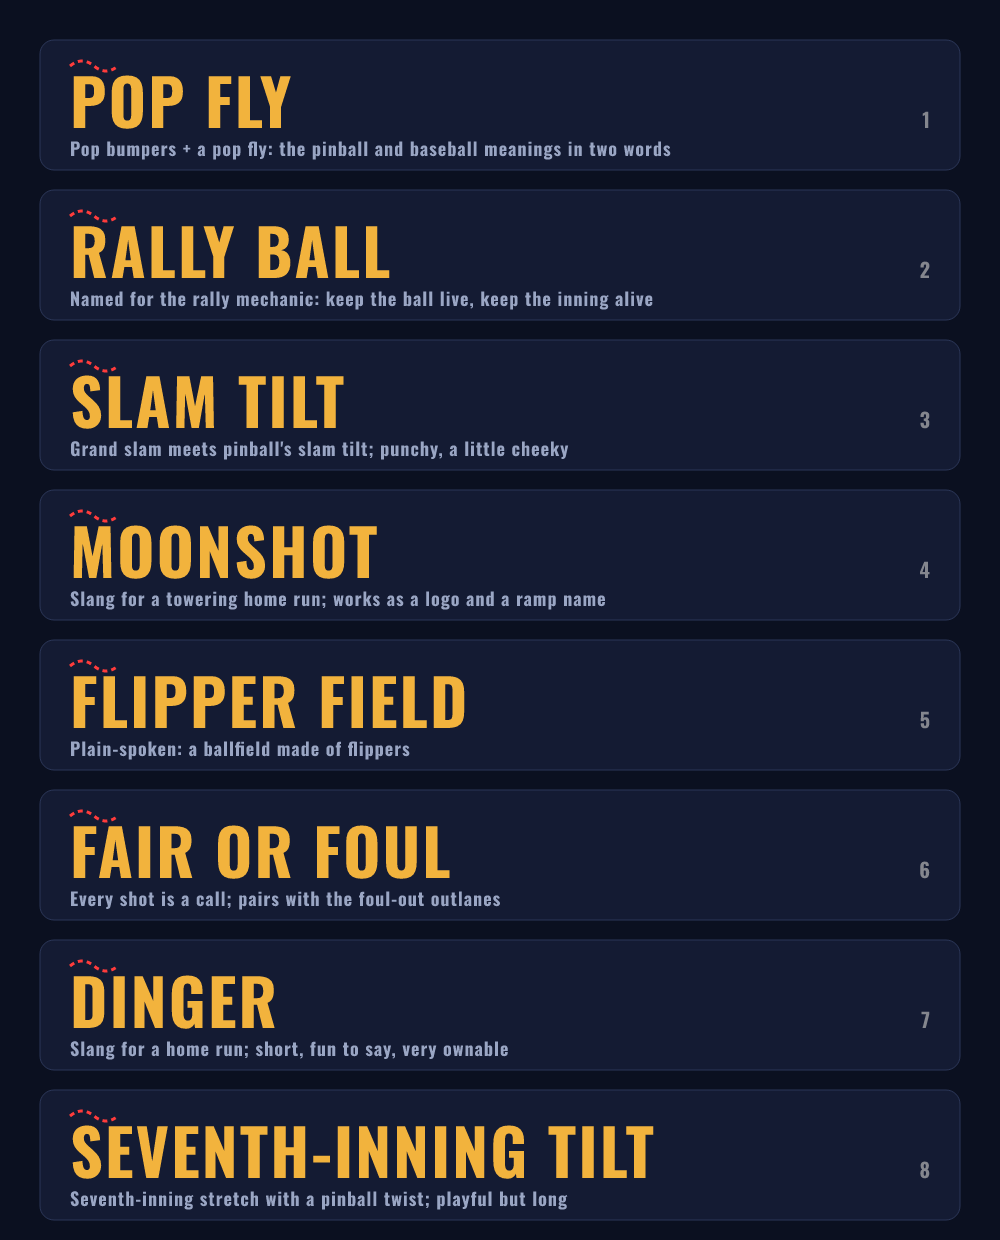
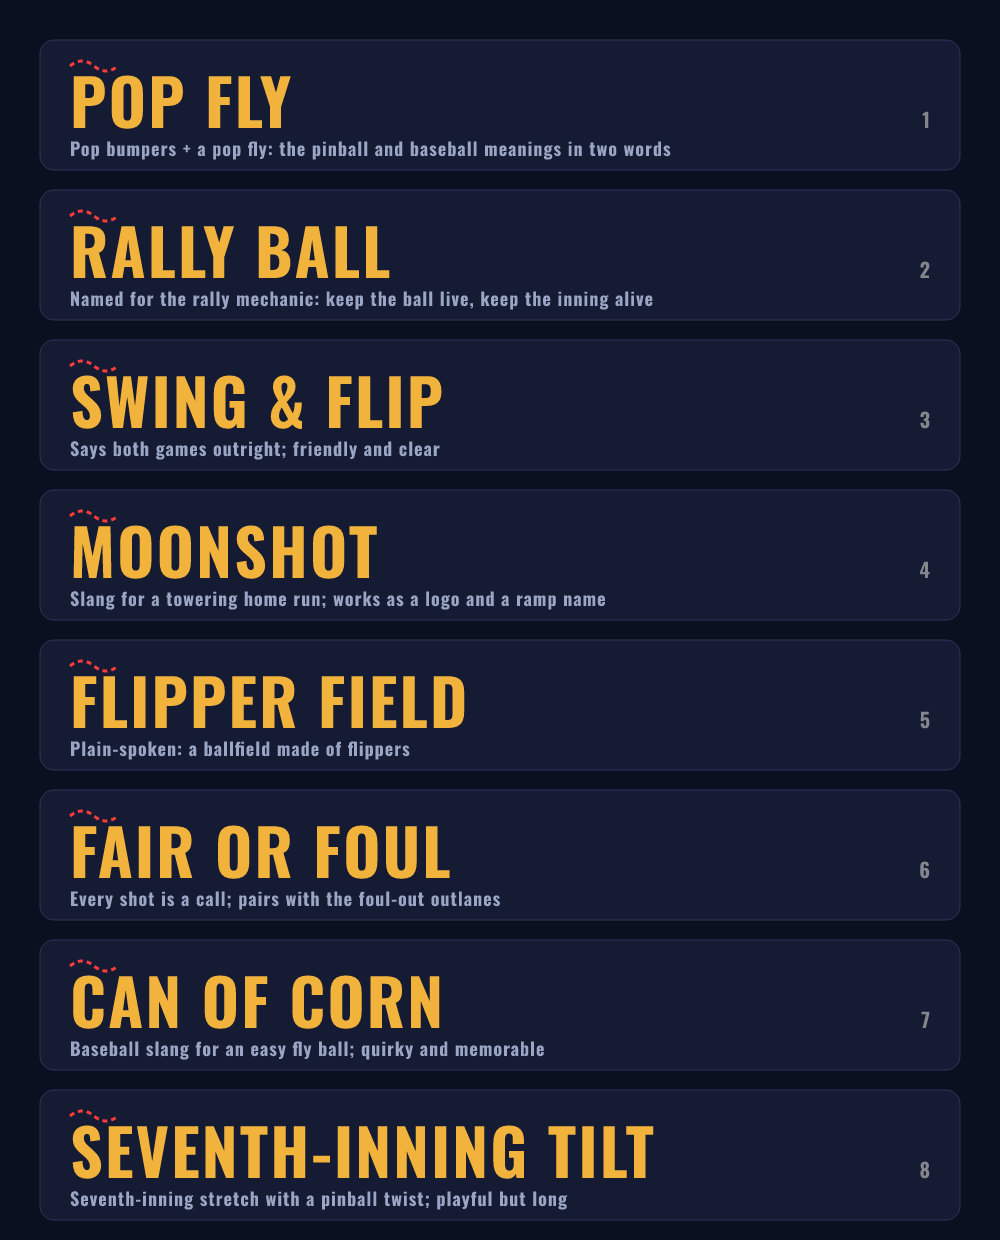
Escape name text in the wordmark sheet; regenerate round 2

Changed region(s): [[0.062, 0.7661, 0.558, 0.8581], [0.062, 0.2758, 0.465, 0.3677], [0.465, 0.3371, 0.558, 0.3677]]

diff --git a/tools/art/names.ts b/tools/art/names.ts
@@ -13,15 +13,27 @@ export const NAME_CANDIDATES: { name: string; line: string }[] = [
 
 /** Round 2 (more options requested). */
 export const NAME_CANDIDATES_2: { name: string; line: string }[] = [
-  { name: 'Pop Fly', line: 'Pop bumpers + a pop fly: the pinball and baseball meanings in two words' },
-  { name: 'Rally Ball', line: 'Named for the rally mechanic: keep the ball live, keep the inning alive' },
+  {
+    name: 'Pop Fly',
+    line: 'Pop bumpers + a pop fly: the pinball and baseball meanings in two words',
+  },
+  {
+    name: 'Rally Ball',
+    line: 'Named for the rally mechanic: keep the ball live, keep the inning alive',
+  },
   { name: 'Swing & Flip', line: 'Says both games outright; friendly and clear' },
   { name: 'Moonshot', line: 'Slang for a towering home run; works as a logo and a ramp name' },
   { name: 'Flipper Field', line: 'Plain-spoken: a ballfield made of flippers' },
   { name: 'Fair or Foul', line: 'Every shot is a call; pairs with the foul-out outlanes' },
   { name: 'Can of Corn', line: 'Baseball slang for an easy fly ball; quirky and memorable' },
-  { name: 'Seventh-Inning Tilt', line: 'Seventh-inning stretch with a pinball twist; playful but long' },
+  {
+    name: 'Seventh-Inning Tilt',
+    line: 'Seventh-inning stretch with a pinball twist; playful but long',
+  },
 ];
+
+const xml = (t: string): string =>
+  t.replace(/&/g, '&amp;').replace(/</g, '&lt;').replace(/>/g, '&gt;');
 
 export function namesSvg(candidates = NAME_CANDIDATES): string {
   const rowH = 150;
@@ -30,8 +42,8 @@ export function namesSvg(candidates = NAME_CANDIDATES): string {
     return `<g transform="translate(40 ${y})">
   <rect width="920" height="${rowH - 20}" rx="14" fill="#141b33" stroke="#2a3557"/>
   <path d="M 30 26 q 12 -10 24 0 q 12 10 24 0" fill="none" stroke="#ff3b3b" stroke-width="3" stroke-dasharray="5 4"/>
-  <text x="30" y="88" font-family="Oswald" font-weight="700" font-size="64" fill="#f2b33d" letter-spacing="2">${name.toUpperCase()}</text>
-  <text x="30" y="116" font-family="Oswald" font-weight="700" font-size="18" fill="#9aa6c4" letter-spacing="1">${line}</text>
+  <text x="30" y="88" font-family="Oswald" font-weight="700" font-size="64" fill="#f2b33d" letter-spacing="2">${xml(name.toUpperCase())}</text>
+  <text x="30" y="116" font-family="Oswald" font-weight="700" font-size="18" fill="#9aa6c4" letter-spacing="1">${xml(line)}</text>
   <text x="890" y="88" text-anchor="end" font-family="Oswald" font-weight="700" font-size="20" fill="#f4f1e8" opacity="0.5">${i + 1}</text>
 </g>`;
   });

diff --git a/tools/names-sheet.ts b/tools/names-sheet.ts
@@ -14,6 +14,9 @@ for (const [file, list] of [
 ] as const) {
   const svg = namesSvg(list);
   writeFileSync(`docs/MVP/assets/${file}.svg`, svg);
-  writeFileSync(`docs/MVP/assets/${file}.png`, new Resvg(svg, { fitTo: { mode: 'width', value: 1000 }, font }).render().asPng());
+  writeFileSync(
+    `docs/MVP/assets/${file}.png`,
+    new Resvg(svg, { fitTo: { mode: 'width', value: 1000 }, font }).render().asPng(),
+  );
   console.log(`wrote docs/MVP/assets/${file}.{svg,png}`);
 }
